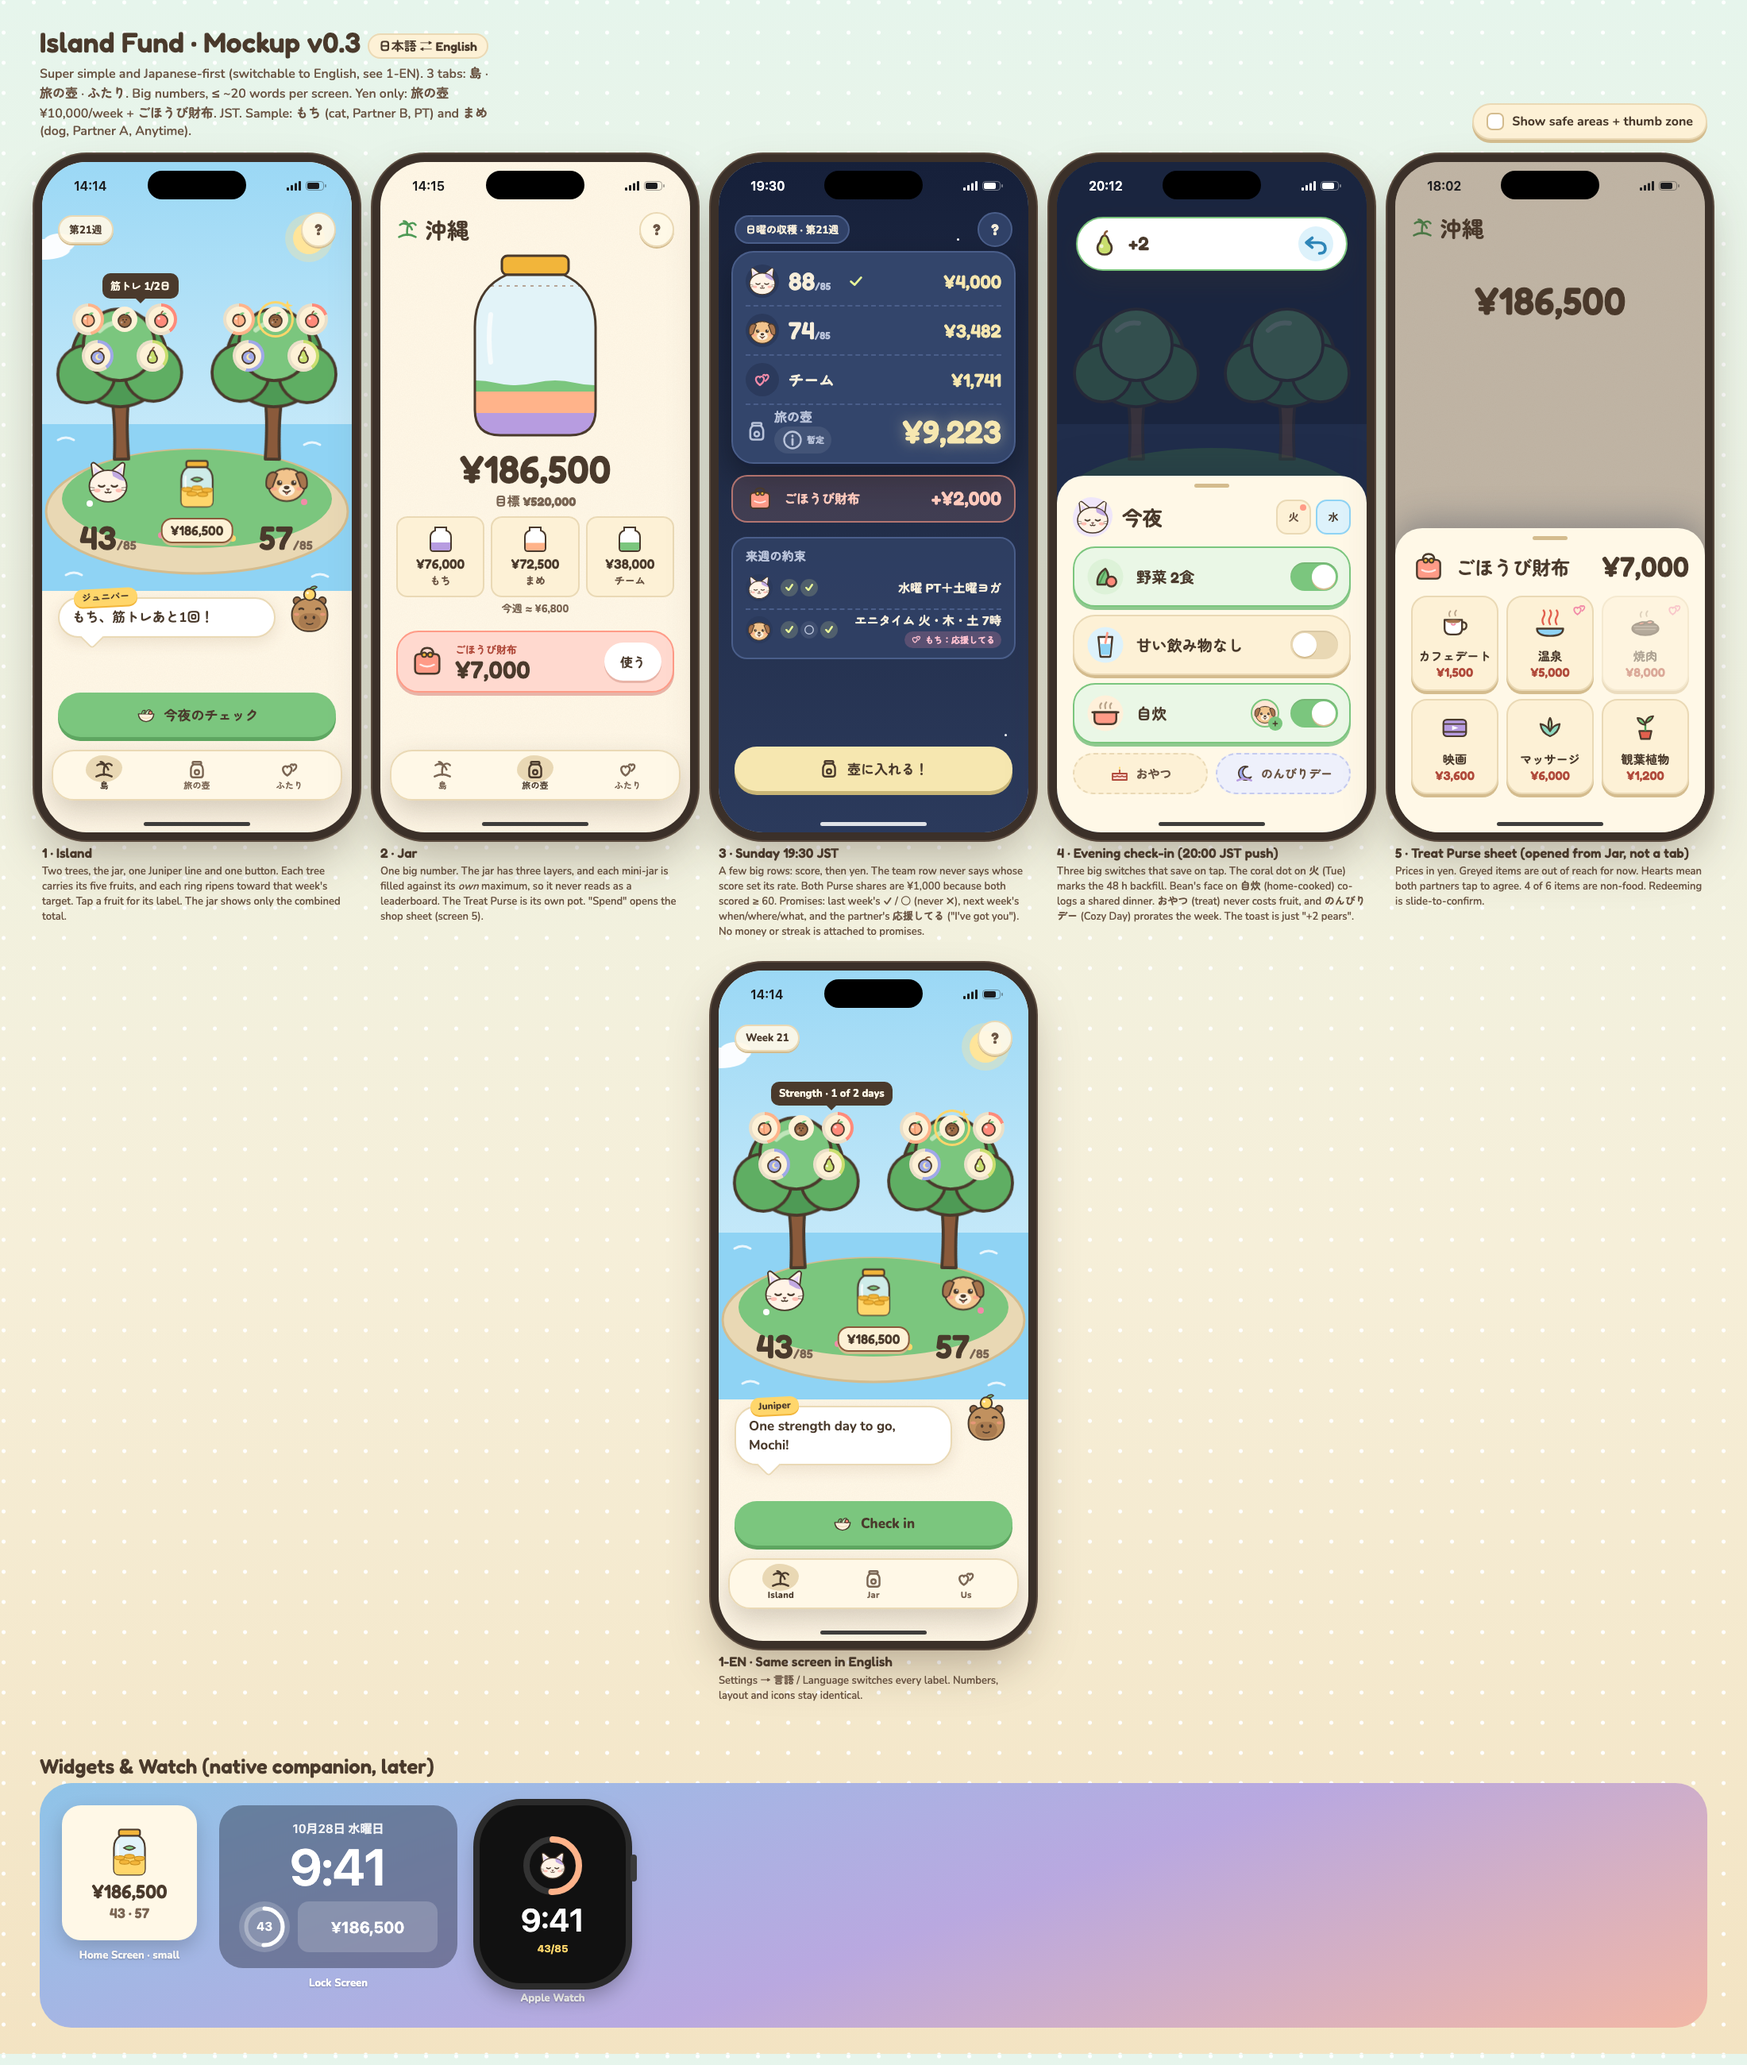
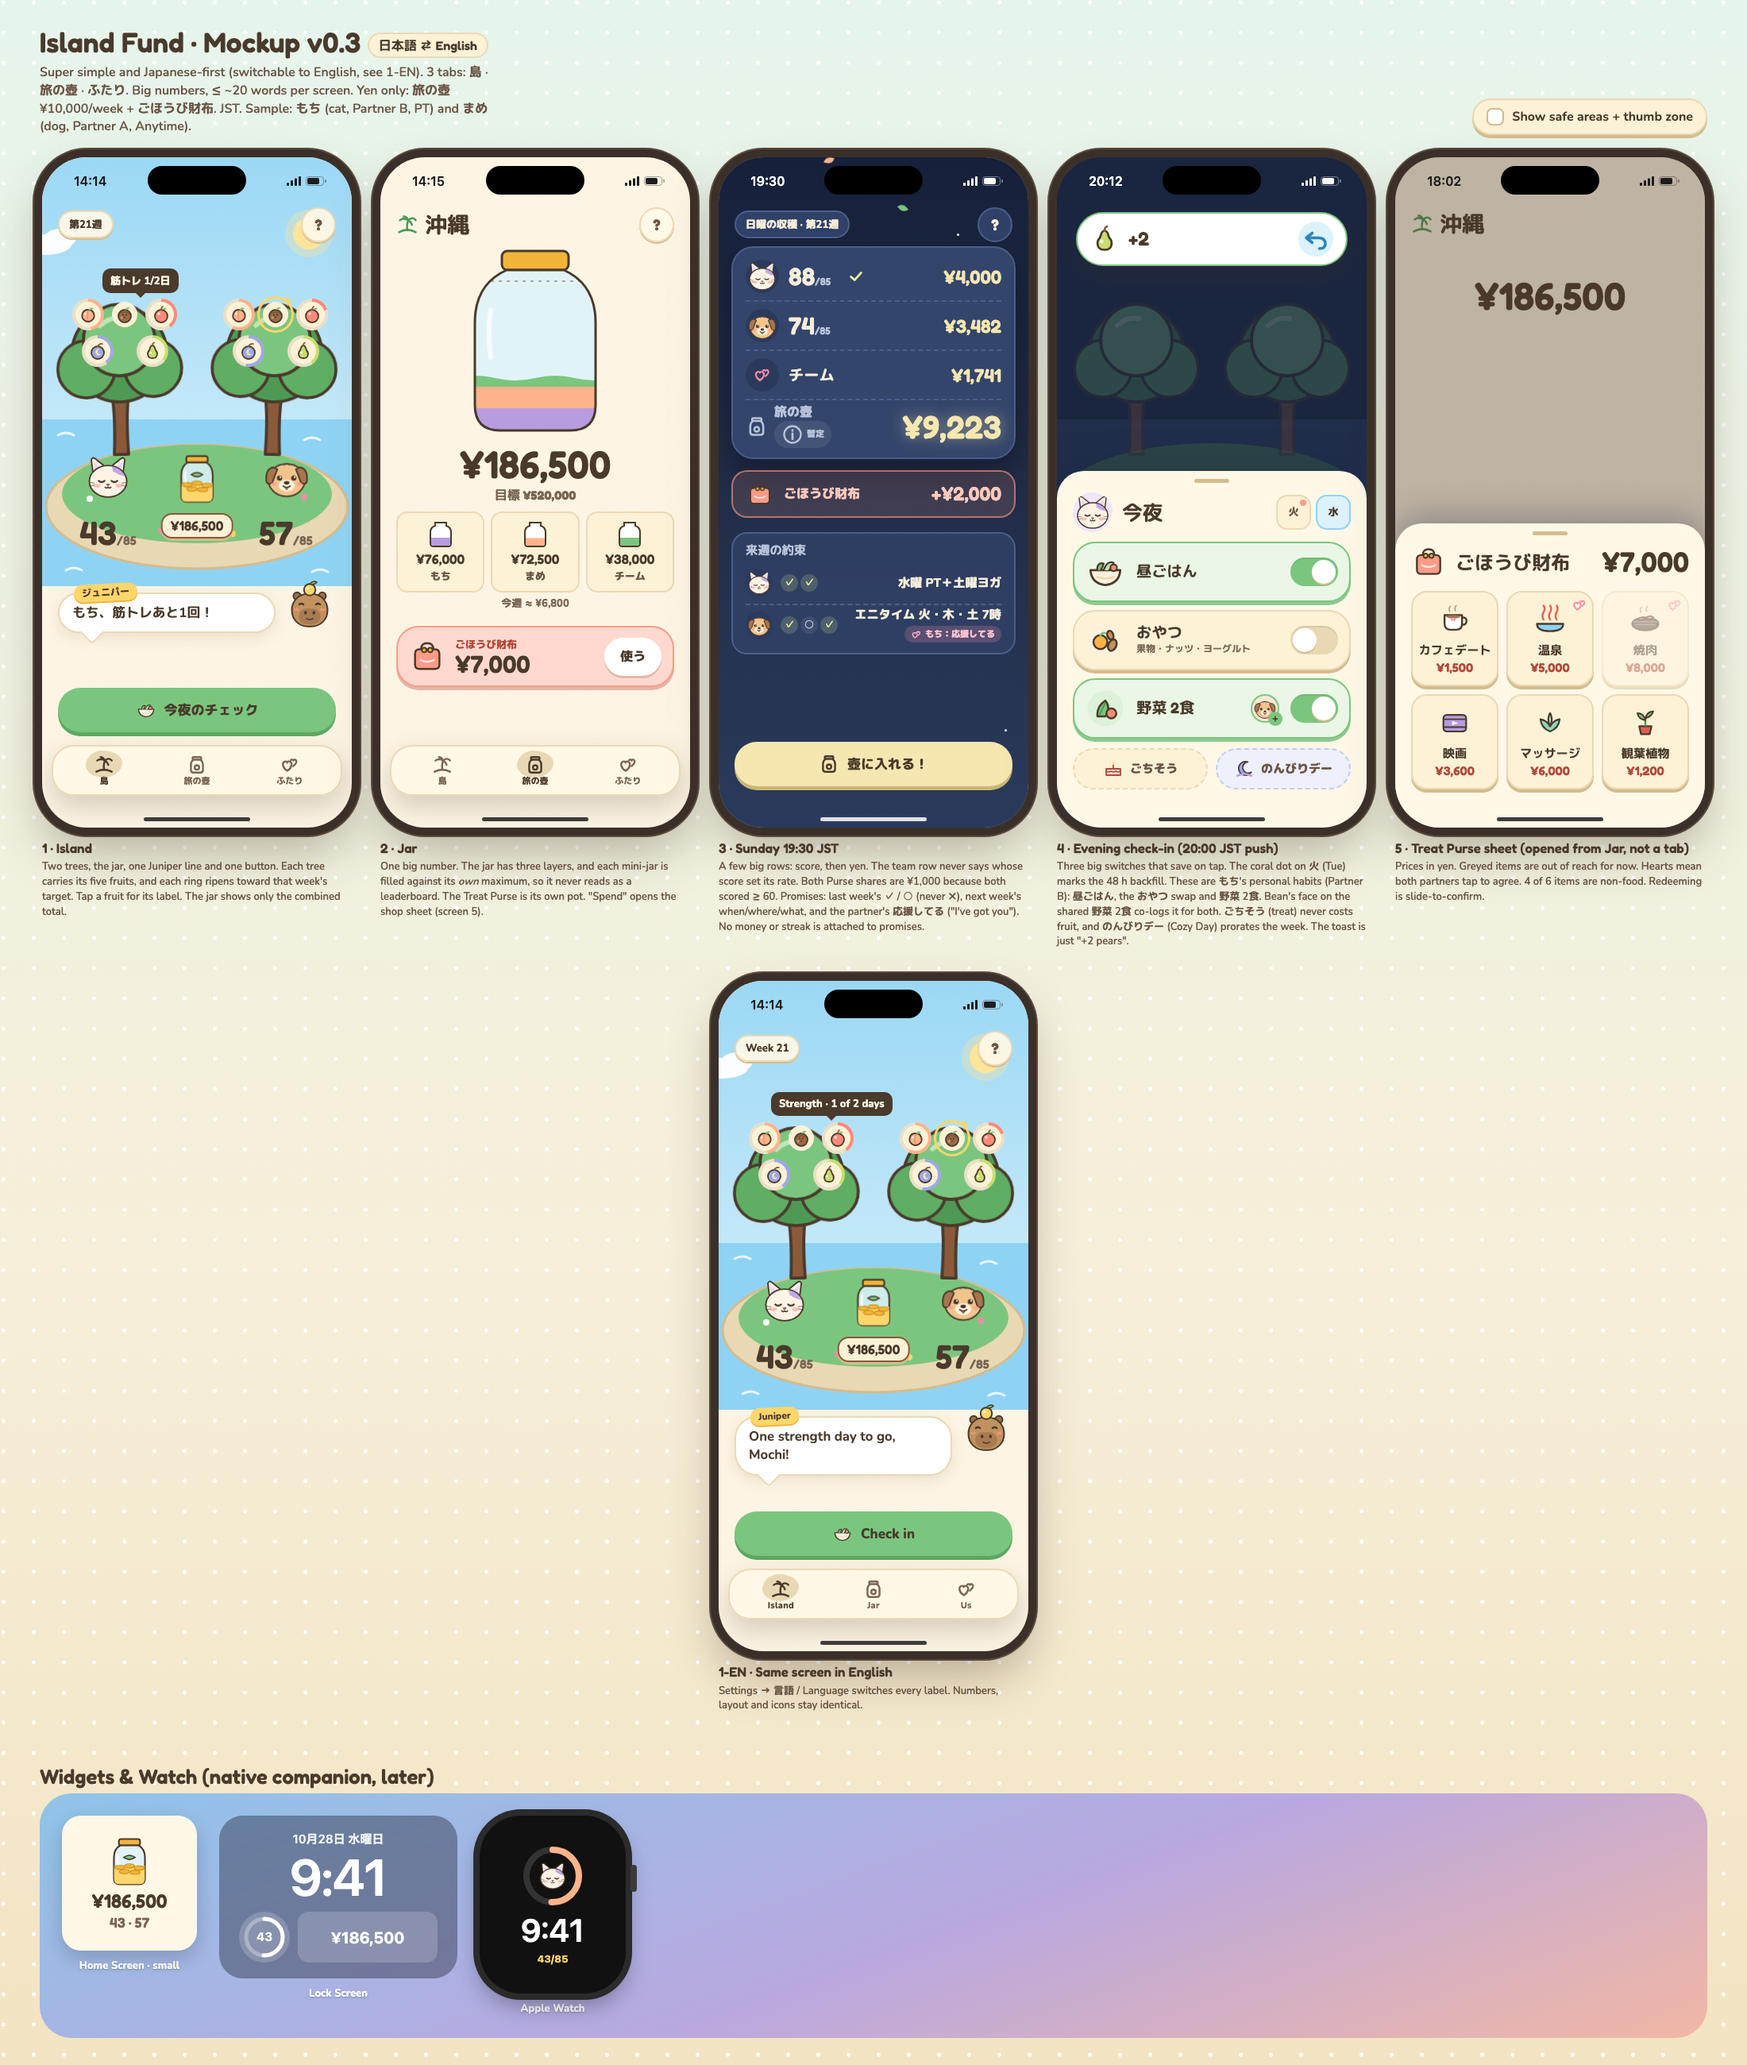
Mockup v0.3: personal check-in habits for B, tighter Japanese typography (M PLUS Rounded 1c)

Changed region(s): [[0.0, 0.0, 1.0, 1.0]]

diff --git a/docs/design/mockup.html b/docs/design/mockup.html
@@ -6,7 +6,7 @@
 <title>Island Fund · Mockup v0.3</title>
 <link rel="preconnect" href="https://fonts.googleapis.com">
 <link rel="preconnect" href="https://fonts.gstatic.com" crossorigin>
-<link href="https://fonts.googleapis.com/css2?family=Fredoka:wght@500;600;700&family=Nunito:wght@400;600;700;800&family=Zen+Maru+Gothic:wght@500;700&display=swap" rel="stylesheet">
+<link href="https://fonts.googleapis.com/css2?family=Fredoka:wght@500;600;700&family=Nunito:wght@400;600;700;800&family=M+PLUS+Rounded+1c:wght@500;700;800&display=swap" rel="stylesheet">
 <style>
 /* ===== Tokens (mirror docs/design/style-guide.md) ===== */
 :root{
@@ -22,8 +22,8 @@
   --p-plum:#B79CE0; --p-apricot:#FFB38A;
   --f-apple:#FF8A7A; --f-peach:#FFB38A; --f-plum:#9FA8E8; --f-pear:#C9DE6E;
 
-  --font-display:"Fredoka","Zen Maru Gothic",ui-rounded,"SF Pro Rounded",system-ui,sans-serif;
-  --font-body:"Nunito","Zen Maru Gothic",ui-rounded,"SF Pro Rounded",system-ui,sans-serif;
+  --font-display:"Fredoka","M PLUS Rounded 1c",ui-rounded,"SF Pro Rounded",system-ui,sans-serif;
+  --font-body:"Nunito","M PLUS Rounded 1c",ui-rounded,"SF Pro Rounded",system-ui,sans-serif;
   --fs-hero:2.75rem; --fs-h1:1.75rem; --fs-h2:1.25rem; --fs-body-lg:1.0625rem;
   --fs-body:.9375rem; --fs-caption:.8125rem; --fs-micro:.6875rem;
   --r-xs:8px; --r-sm:14px; --r-md:20px; --r-lg:28px; --r-xl:40px; --r-pill:999px;
@@ -128,6 +128,7 @@ figcaption b{font-family:var(--font-display);font-weight:600;font-size:1.05rem;c
 .tab .dot{position:absolute;top:2px;right:16px;width:9px;height:9px;border-radius:50%;background:var(--coral);border:2px solid var(--cream)}
 
 /* ===== v0.3 shared ===== */
+html[lang="ja"] .phone:not([lang="en"]) *{letter-spacing:0 !important}
 .help{width:44px;height:44px;border-radius:50%;background:rgba(255,248,231,.92);border:2px solid var(--paper-edge);display:grid;place-items:center;font:700 1.2rem var(--font-display);color:var(--ink-soft);box-shadow:0 2px 0 var(--sand-deep)}
 .night .help{background:rgba(51,69,107,.9);border-color:var(--night-edge);color:var(--night-ink);box-shadow:0 2px 0 #18213A}
 .screen-head{position:absolute;top:calc(var(--safe-top) + 4px);left:20px;right:20px;display:flex;align-items:center;justify-content:space-between;z-index:5}
@@ -228,7 +229,8 @@ figcaption b{font-family:var(--font-display);font-weight:600;font-size:1.05rem;c
 .habits{display:grid;gap:10px}
 .habit{display:flex;align-items:center;gap:14px;min-height:76px;padding:10px 14px;border-radius:var(--r-lg);background:var(--paper);border:2.5px solid var(--paper-edge);box-shadow:var(--sh-lip);font:600 1.2rem var(--font-display)}
 .habit .ic{width:50px;height:50px;flex:none}
-.habit .txt{flex:1}
+.habit .txt{flex:1;line-height:1.2}
+.habit .txt small{display:block;font:700 .75rem var(--font-body);color:var(--ink-faint)}
 .habit.on{background:#EAF7E6;border-color:var(--leaf);box-shadow:0 4px 0 #8FC98F}
 .sw{width:60px;height:36px;border-radius:var(--r-pill);background:var(--sand);position:relative;flex:none;box-shadow:var(--sh-inset)}
 .sw::after{content:"";position:absolute;top:3px;left:3px;width:30px;height:30px;border-radius:50%;background:#fff;box-shadow:0 2px 0 var(--sand-deep)}
@@ -433,6 +435,7 @@ figcaption b{font-family:var(--font-display);font-weight:600;font-size:1.05rem;c
     <symbol id="i-cafe" viewBox="0 0 48 48"><path d="M10 18 H34 V30 Q34 38 26 38 H18 Q10 38 10 30Z" fill="#fff" stroke="#4A3A2C" stroke-width="2.6" stroke-linejoin="round"/><path d="M34 21 Q41 21 40 27 Q39 32 34 31" fill="none" stroke="#4A3A2C" stroke-width="2.6"/><ellipse cx="22" cy="20" rx="10" ry="2.4" fill="#A8754E"/><path d="M19 23 Q22 27 25 23" stroke="#F28BA8" stroke-width="2" fill="none"/><path d="M17 13 Q15 9 18 6 M25 12 Q23 8 26 5" stroke="#B9A48A" stroke-width="2" fill="none" stroke-linecap="round"/></symbol>
     <symbol id="i-onsen" viewBox="0 0 48 48"><path d="M6 30 Q6 40 24 40 Q42 40 42 30Z" fill="#8FD3F4" stroke="#4A3A2C" stroke-width="2.6" stroke-linejoin="round"/><path d="M15 24 Q12 19 15 14 Q18 9 15 5 M24 24 Q21 19 24 14 Q27 9 24 5 M33 24 Q30 19 33 14 Q36 9 33 5" stroke="#E2604E" stroke-width="2.6" fill="none" stroke-linecap="round"/></symbol>
     <symbol id="i-undo" viewBox="0 0 24 24"><path d="M9 7 L4 11 L9 15 M4 11 H14 Q20 11 20 16 Q20 20 15 20" fill="none" stroke="currentColor" stroke-width="2.4" stroke-linecap="round" stroke-linejoin="round"/></symbol>
+    <symbol id="i-snack" viewBox="0 0 40 40"><circle cx="20" cy="20" r="18" fill="#FFF0DA"/><circle cx="15" cy="22" r="7" fill="#FFB347" stroke="#4A3A2C" stroke-width="2"/><path d="M15 15 Q17 12 20 13" stroke="#7BC67E" stroke-width="2.2" fill="none" stroke-linecap="round"/><ellipse cx="27" cy="25" rx="4" ry="6" transform="rotate(25 27 25)" fill="#C1915F" stroke="#4A3A2C" stroke-width="2"/><ellipse cx="25" cy="15" rx="3" ry="4.5" transform="rotate(-20 25 15)" fill="#C1915F" stroke="#4A3A2C" stroke-width="2"/></symbol>
   </defs>
 </svg>
 
@@ -574,18 +577,18 @@ figcaption b{font-family:var(--font-display);font-weight:600;font-size:1.05rem;c
       <div class="days"><span class="day miss">火</span><span class="day on">水</span></div>
     </div>
     <div class="habits">
-      <div class="habit on" role="switch" aria-checked="true"><svg class="ic"><use href="#i-veg"/></svg><span class="txt">野菜 2食</span><span class="sw"></span></div>
-      <div class="habit" role="switch" aria-checked="false"><svg class="ic"><use href="#i-drink"/></svg><span class="txt">甘い飲み物なし</span><span class="sw"></span></div>
-      <div class="habit on" role="switch" aria-checked="true"><svg class="ic"><use href="#i-pot"/></svg><span class="txt">自炊</span><span class="co" title="Also log for Bean"><svg><use href="#v-bean"/></svg></span><span class="sw"></span></div>
+      <div class="habit on" role="switch" aria-checked="true"><svg class="ic" viewBox="0 0 48 48"><use href="#i-bowl"/></svg><span class="txt">昼ごはん</span><span class="sw"></span></div>
+      <div class="habit" role="switch" aria-checked="false"><svg class="ic"><use href="#i-snack"/></svg><span class="txt">おやつ<small>果物・ナッツ・ヨーグルト</small></span><span class="sw"></span></div>
+      <div class="habit on" role="switch" aria-checked="true"><svg class="ic"><use href="#i-veg"/></svg><span class="txt">野菜 2食</span><span class="co" title="まめも"><svg><use href="#v-bean"/></svg></span><span class="sw"></span></div>
     </div>
     <div class="extras-row">
-      <span class="chip"><svg viewBox="0 0 26 26"><use href="#i-cake"/></svg>おやつ</span>
+      <span class="chip"><svg viewBox="0 0 26 26"><use href="#i-cake"/></svg>ごちそう</span>
       <span class="chip cozy"><svg><use href="#i-cozy"/></svg>のんびりデー</span>
     </div>
   </section>
   <div class="home-ind"></div><div class="safe-overlay"><span style="top:40px">safe-area-inset-top 59</span><span style="bottom:12px">inset-bottom 34</span></div><div class="thumb-zone"><span>thumb zone</span></div>
 </div>
-<figcaption><b>4 · Evening check-in (20:00 JST push)</b>Three big switches that save on tap. The coral dot on 火 (Tue) marks the 48 h backfill. Bean's face on 自炊 (home-cooked) co-logs a shared dinner. おやつ (treat) never costs fruit, and のんびりデー (Cozy Day) prorates the week. The toast is just "+2 pears".</figcaption>
+<figcaption><b>4 · Evening check-in (20:00 JST push)</b>Three big switches that save on tap. The coral dot on 火 (Tue) marks the 48 h backfill. These are もち's personal habits (Partner B): 昼ごはん, the おやつ swap and 野菜 2食. Bean's face on the shared 野菜 2食 co-logs it for both. ごちそう (treat) never costs fruit, and のんびりデー (Cozy Day) prorates the week. The toast is just "+2 pears".</figcaption>
 </figure>
 
 <!-- ============ 5. SHOP SHEET ============ -->

diff --git a/docs/team/ui-ux-designer.md b/docs/team/ui-ux-designer.md
@@ -43,7 +43,7 @@ Artifacts: `docs/design/mockup.html` (5 screens + an English rendering of Island
 ## 4. Language: Japanese-first, English switchable
 
 - The UI is Japanese by default (`lang="ja"`). ふたり → 言語 / Language switches every label to English. Numbers, layout and icons stay identical (mockup screen "1-EN").
-- Font: **Zen Maru Gothic** (OFL 1.1, full Japanese coverage) for kana and kanji. **Fredoka** stays for digits and ¥ amounts. Alternative: M PLUS Rounded 1c (OFL).
+- Font: **M PLUS Rounded 1c** (OFL 1.1, full Japanese coverage) for kana and kanji, with `letter-spacing: 0` on all Japanese text. It sets small kana tighter than Zen Maru Gothic, which looked over-spaced. **Fredoka** stays for digits and ¥ amounts.
 - Formats: `¥186,500`, 24 h JST (`20:00`, `19:30`), `10月28日 水曜日`, `第21週`, metric units.
 - Glossary (JA → EN):
 
@@ -58,10 +58,10 @@ Artifacts: `docs/design/mockup.html` (5 screens + an English rendering of Island
 | 来週の約束 | Next week's promise | ceremony |
 | 応援してる | I've got you | partner's tap on a promise |
 | のんびりデー | Cozy Day | check-in chip |
-| おやつ | Treat (neutral) | check-in chip |
 | チーム | Team | jar layer, ceremony |
 | 暫定 | Provisional | ceremony total |
-| 野菜 2食 / 甘い飲み物なし / 自炊 | Veggies / No sugary drinks / Home-cooked | habits |
+| 昼ごはん / おやつ (果物・ナッツ・ヨーグルト) / 野菜 2食 | Lunch / Snack swap / Veggies at 2 meals | もち's habits (personal per partner) |
+| ごちそう | Treat (neutral) | check-in chip |
 | 筋トレ・活動・歩数・睡眠・食事 | Strength · Active · Steps · Sleep · Eats | fruit tooltips |
 
 - Example of one element in both languages (the Jar's purse row): **JA** 「ごほうび財布 ¥7,000 ［使う］」 / **EN** "Treat Purse ¥7,000 [Spend]".
@@ -103,7 +103,7 @@ Full-screen: 日曜の収穫 (Sunday 19:30 JST)   ·   Onboarding (once)
 
 Then ごほうび財布 +¥2,000 (¥1,000 per person at ≥ 60). Then 来週の約束: last week's ✓/○ marks and next week's when/where/what (もち: 「水曜 PT＋土曜ヨガ」, まめ: 「エニタイム 火・木・土 7時」), with the partner's 応援してる pill. Promises carry no money and no streak; a kept promise gives a small fruit bonus inside the 100 cap (0006). One button: 壺に入れる！ Late data can only add; Wednesday top-ups show as a small "+¥" on Island.
 
-**4 · 今夜のチェック Evening check-in (20:00 JST).** Title 今夜 and a day chip (火 has a coral dot = open for the 48 h backfill). Three big switches: 野菜 2食 · 甘い飲み物なし · 自炊, the last with the partner's face to co-log. Two chips: おやつ (neutral, costs nothing) and のんびりデー (prorates the week; 4/month). Saves on tap; the toast is just a pear icon and "+2" with an undo button. The partner only ever sees the pear count.
+**4 · 今夜のチェック Evening check-in (20:00 JST).** Title 今夜 and a day chip (火 has a coral dot = open for the 48 h backfill). Three big switches showing **that person's own habits** (もち / Partner B: 昼ごはん · おやつ 果物・ナッツ・ヨーグルト · 野菜 2食). The shared 野菜 2食 has the partner's face to co-log. まめ sees his own three (e.g. 定食スタイル · 減塩デー · 野菜 2食). Two chips: ごちそう (neutral treat, costs nothing) and のんびりデー (prorates the week; 4/month). Saves on tap; the toast is just a pear icon and "+2" with an undo button. The partner only ever sees the pear count.
 
 **5 · ごほうび財布 Treat Purse sheet (from Jar).** Header `¥7,000`. A 3×2 grid priced in yen: カフェデート ¥1,500, 温泉 ¥5,000, 焼肉 ¥8,000 (greyed: not enough yet), 映画 ¥3,600, マッサージ ¥6,000, 観葉植物 ¥1,200. 4 of 6 are non-food. A heart badge means both partners agree. Slide to confirm.
 
@@ -154,7 +154,7 @@ Small widget: jar + `¥186,500` + `43 · 57`. Lock Screen: a circular weekly rin
 ## 14. Open questions for the user
 
 1. **Names and villagers**: keep もち (cat) and まめ (dog), or choose your own?
-2. **Season 1 habits**: are 野菜 2食 · 甘い飲み物なし · 自炊 the right three for each of you?
+2. **Season 1 habits**: the personal sets are now in `nutritionist-personalized.md`. Are the short labels (昼ごはん, おやつ, 野菜 2食) clear?
 3. **Destination art**: 沖縄 as the placeholder. Do you have a real destination for the jar header and the year-end screen?
 4. **Japanese wording**: are 旅の壺 / ごほうび財布 / のんびりデー / 応援してる natural to you, or do you prefer other words?
 5. **Native appetite**: are widgets and the Watch worth the $99/yr developer account later?
